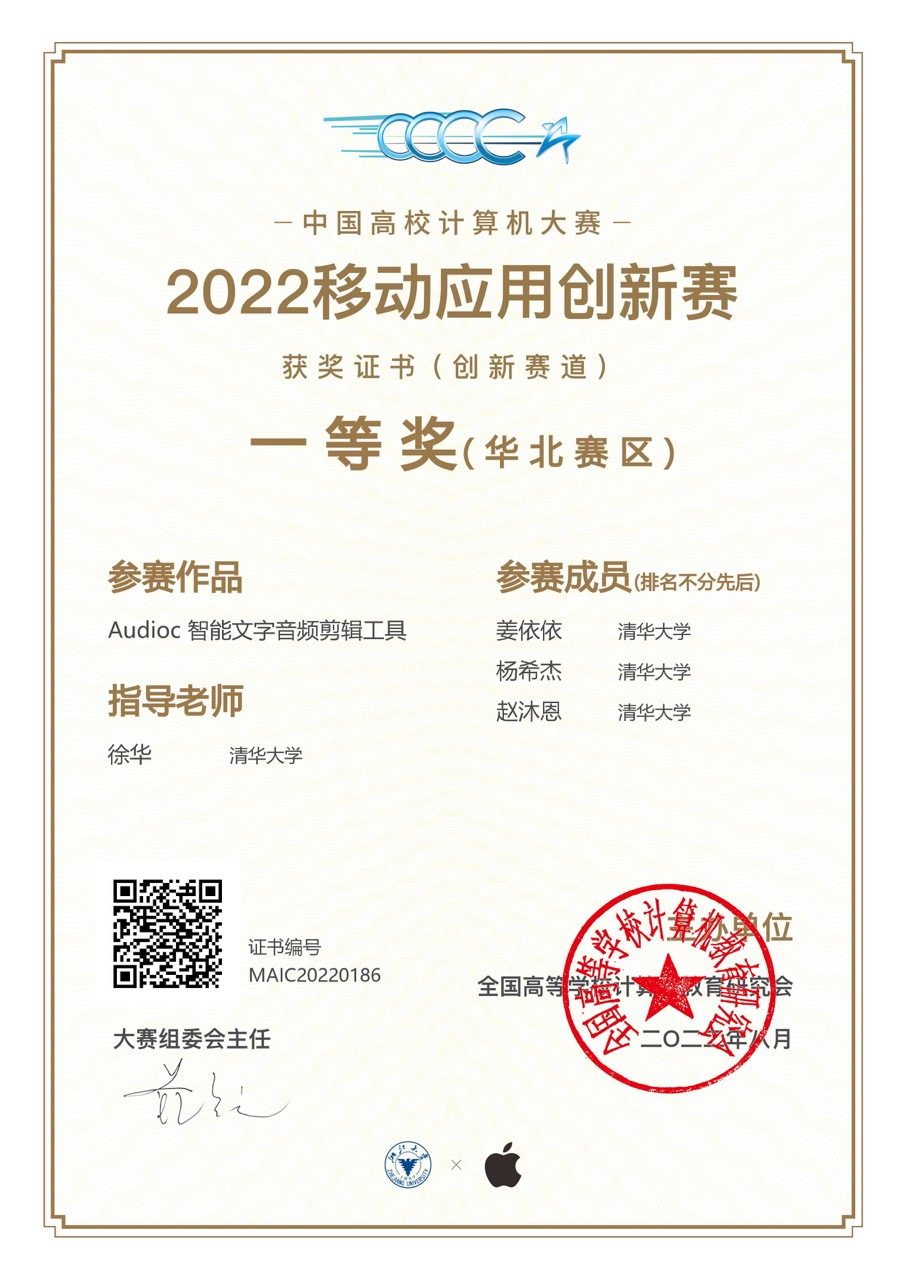
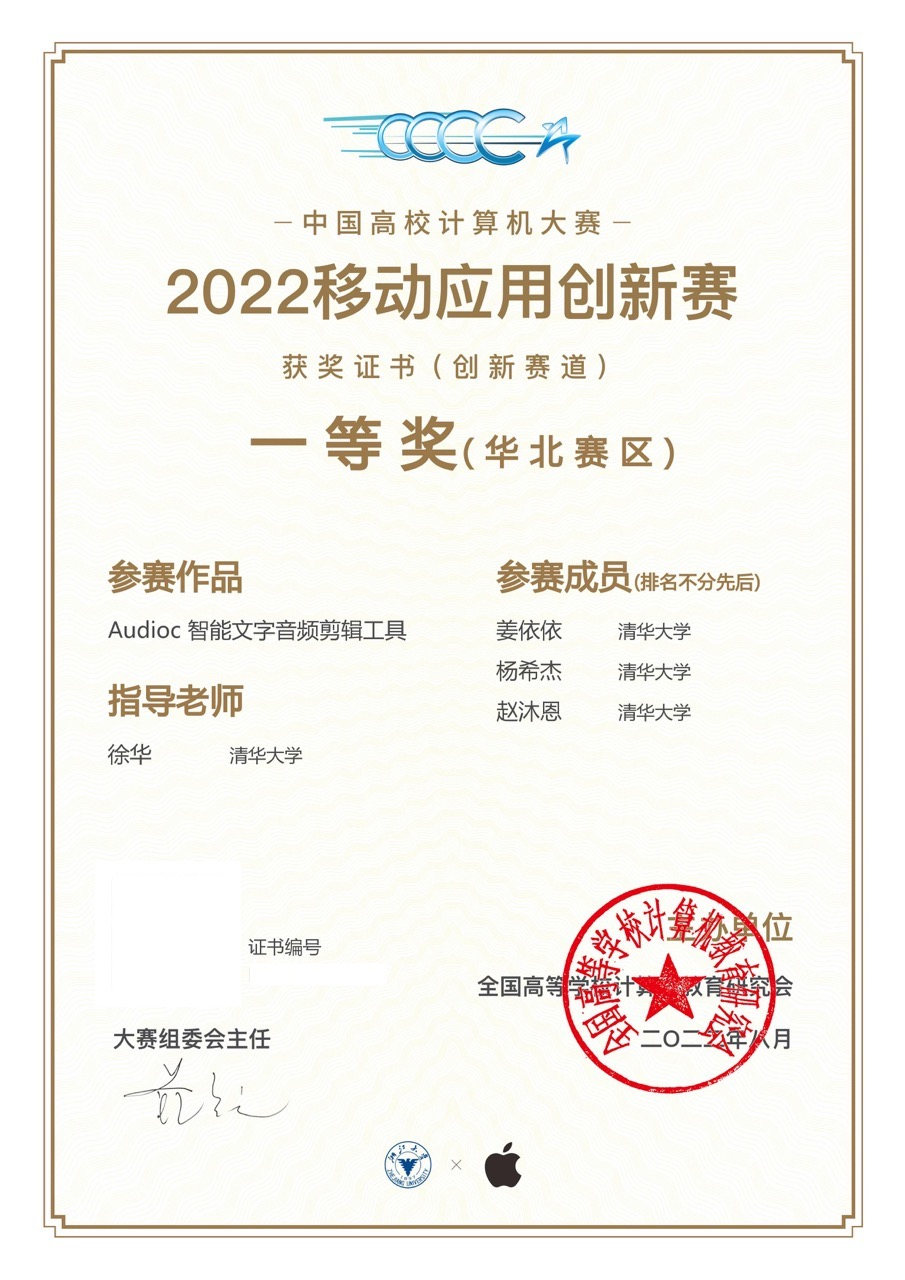
fix certificate

Changed region(s): [[0.1238, 0.6875, 0.2475, 0.7812], [0.2785, 0.75, 0.4331, 0.7812]]

diff --git a/docs/ME/thu-certificate.md b/docs/ME/thu-certificate.md
@@ -92,4 +92,6 @@
 
 ## Thu iOS Club
 
+（非官方）
+
 ![](images-certificate/iOS-Club-功勋.jpeg)
